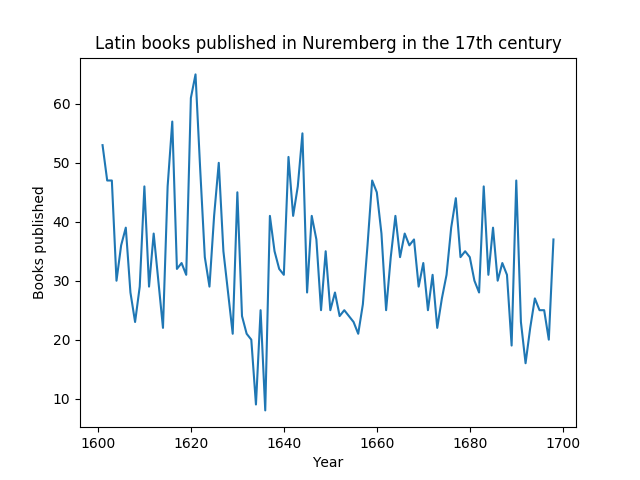
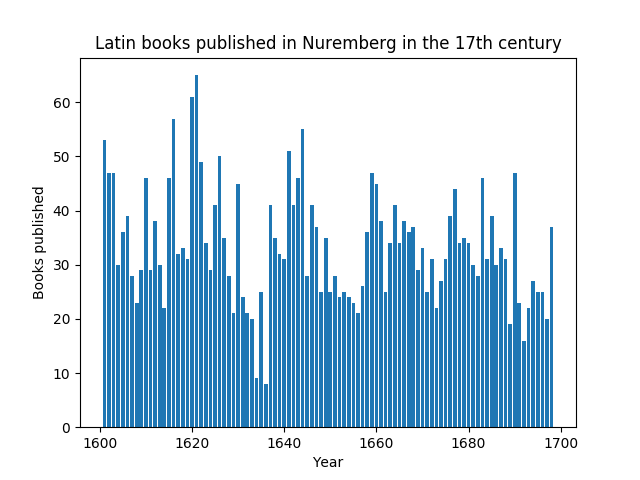
wikidata ergänzt

diff --git a/wikidata.py b/wikidata.py
@@ -1,0 +1,31 @@
+import requests
+
+wikidata_endpoint = "https://query.wikidata.org/sparql"
+query = """
+SELECT ?authorLabel ?title ?year 
+WHERE {
+  ?book wdt:P407 wd:Q397.
+  ?book wdt:P31 wd:Q7725634 .
+  ?book wdt:P50 ?author.
+  ?book wdt:P1476 ?title. 
+  ?book wdt:P577 ?year.
+  FILTER ( year(?year) > 1600 ).
+  FILTER ( year(?year) < 1800 ).
+  SERVICE wikibase:label {
+    bd:serviceParam wikibase:language "en" .
+   }
+  }
+ 
+        """
+
+parameters = {
+        'query' : query,
+        'format' : 'JSON'
+        }
+
+headers = {"Accept" : "application/json"}
+
+res = requests.get(wikidata_endpoint,headers=headers,params=parameters)
+
+print(res.text)
+

diff --git a/vd17_yearly.py b/vd17_yearly.py
@@ -22,7 +22,7 @@ for year in years:
     publication_numbers.append(int(hits))
 
 fig, ax = plt.subplots()
-ax.plot(years,publication_numbers)
+ax.bar(years,publication_numbers)
 ax.set(xlabel='Year', ylabel='Books published',
                title='Latin books published in Nuremberg in the 17th century')
 fig.savefig("vd17_nuremberg.png")

diff --git a/README.md b/README.md
@@ -21,7 +21,7 @@ A good way to get an overview of what was written and published in the early mod
 
 ## USTC
 
-Wide collection of bibliographic data, good search functionalities, no API
+The [USTC](https://www.ustc.ac.uk/) offers a very wide collection of bibliographic data and, via the web form, useful search functionalities. Unfortunately 
 
 ## VD16, VD17, VD18
 
@@ -143,8 +143,69 @@ For digital Neo-Latin texts from various corpora to become citable and interoper
 
 # Authority files
 
+## Wikidata
+
+Wikidata is a treasuretrove for every kind of information. Thanks to its SPARQL-endpoint, highly complex queries are possible. A rather simple expamle (many more can be found [here](https://www.wikidata.org/wiki/Wikidata:SPARQL_query_service/queries) and tried out [here](https://query.wikidata.org/)):
+
+```SPARQL
+
+SELECT ?authorLabel ?title ?year 
+WHERE {
+  ?book wdt:P407 wd:Q397.
+  ?book wdt:P31 wd:Q7725634 .
+  ?book wdt:P50 ?author.
+  ?book wdt:P1476 ?title. 
+  ?book wdt:P577 ?year.
+  FILTER ( year(?year) > 1600 ).
+  FILTER ( year(?year) < 1800 ).
+  SERVICE wikibase:label {
+    bd:serviceParam wikibase:language "en" .
+   }
+  }
+```
+
+The query is a GET request and can thus be integrated in a simple Python script, e.g.:
+
+```python
+
+import requests
+
+wikidata_endpoint = "https://query.wikidata.org/sparql"
+query = """
+SELECT ?authorLabel ?title ?year 
+WHERE {
+  ?book wdt:P407 wd:Q397.
+  ?book wdt:P31 wd:Q7725634 .
+  ?book wdt:P50 ?author.
+  ?book wdt:P1476 ?title. 
+  ?book wdt:P577 ?year.
+  FILTER ( year(?year) > 1600 ).
+  FILTER ( year(?year) < 1800 ).
+  SERVICE wikibase:label {
+    bd:serviceParam wikibase:language "en" .
+   }
+  }
+ 
+        """
+
+parameters = {
+        'query' : query,
+        'format' : 'JSON'
+        }
+
+headers = {"Accept" : "application/json"}
+
+res = requests.get(wikidata_endpoint,headers=headers,params=parameters)
+
+print(res.text)
+
+```
+
 ## VIAF
 
+The documentation of the VIAF API can be found [here](https://www.oclc.org/developer/develop/web-services/viaf/authority-cluster.en.html)
+
+Geographic
 ## Geographic data
 
 ??
